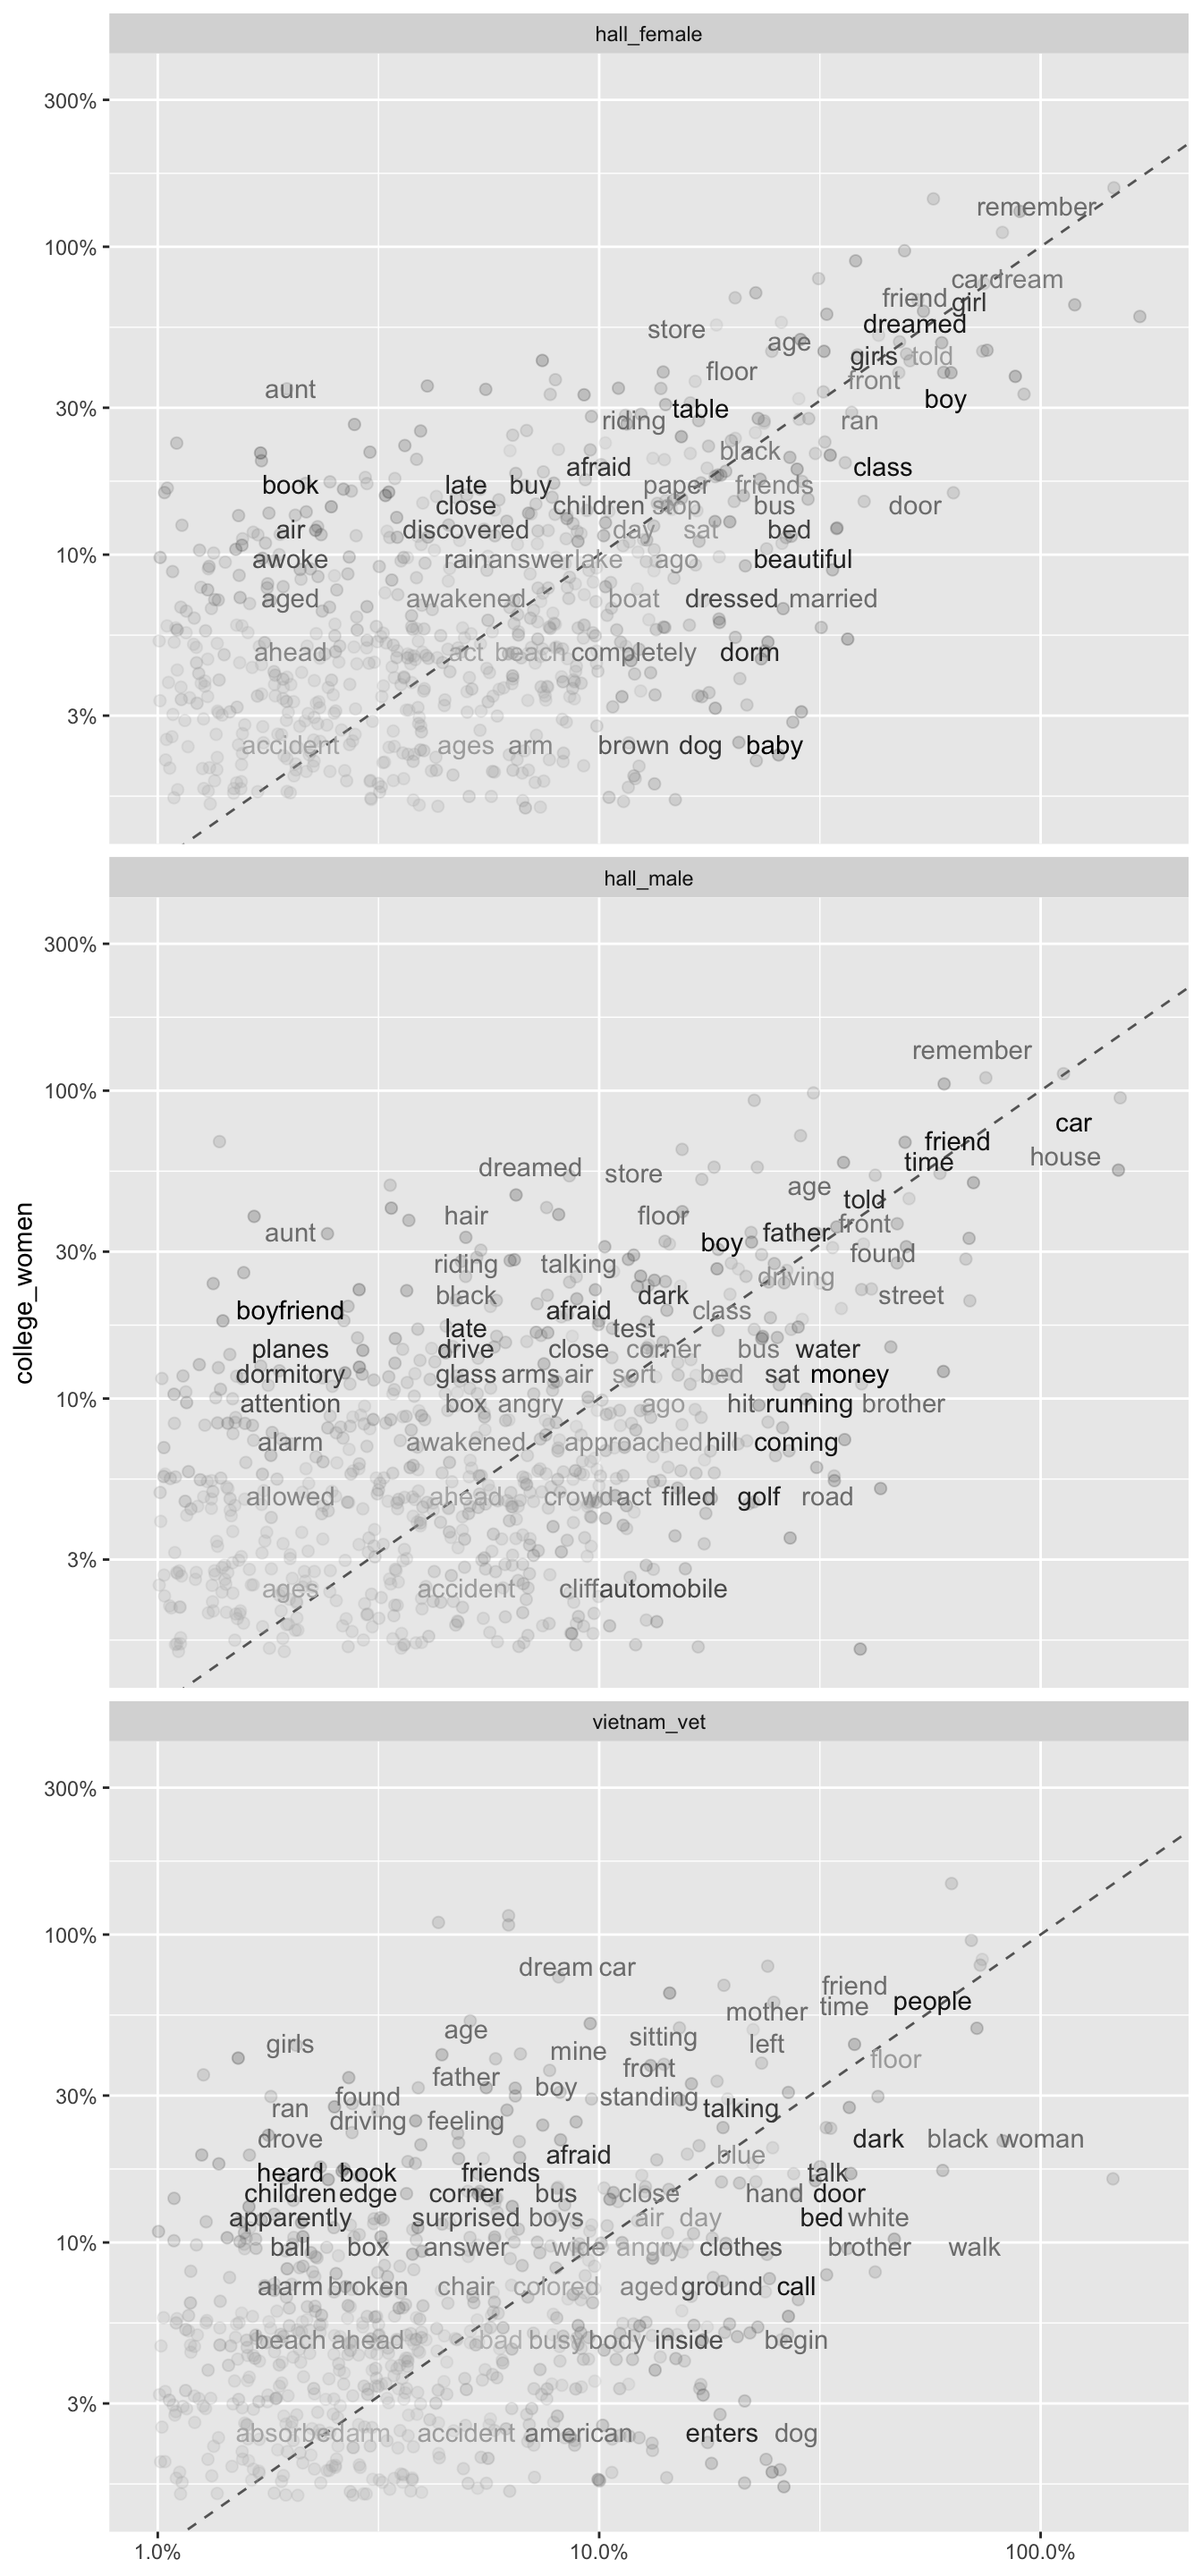
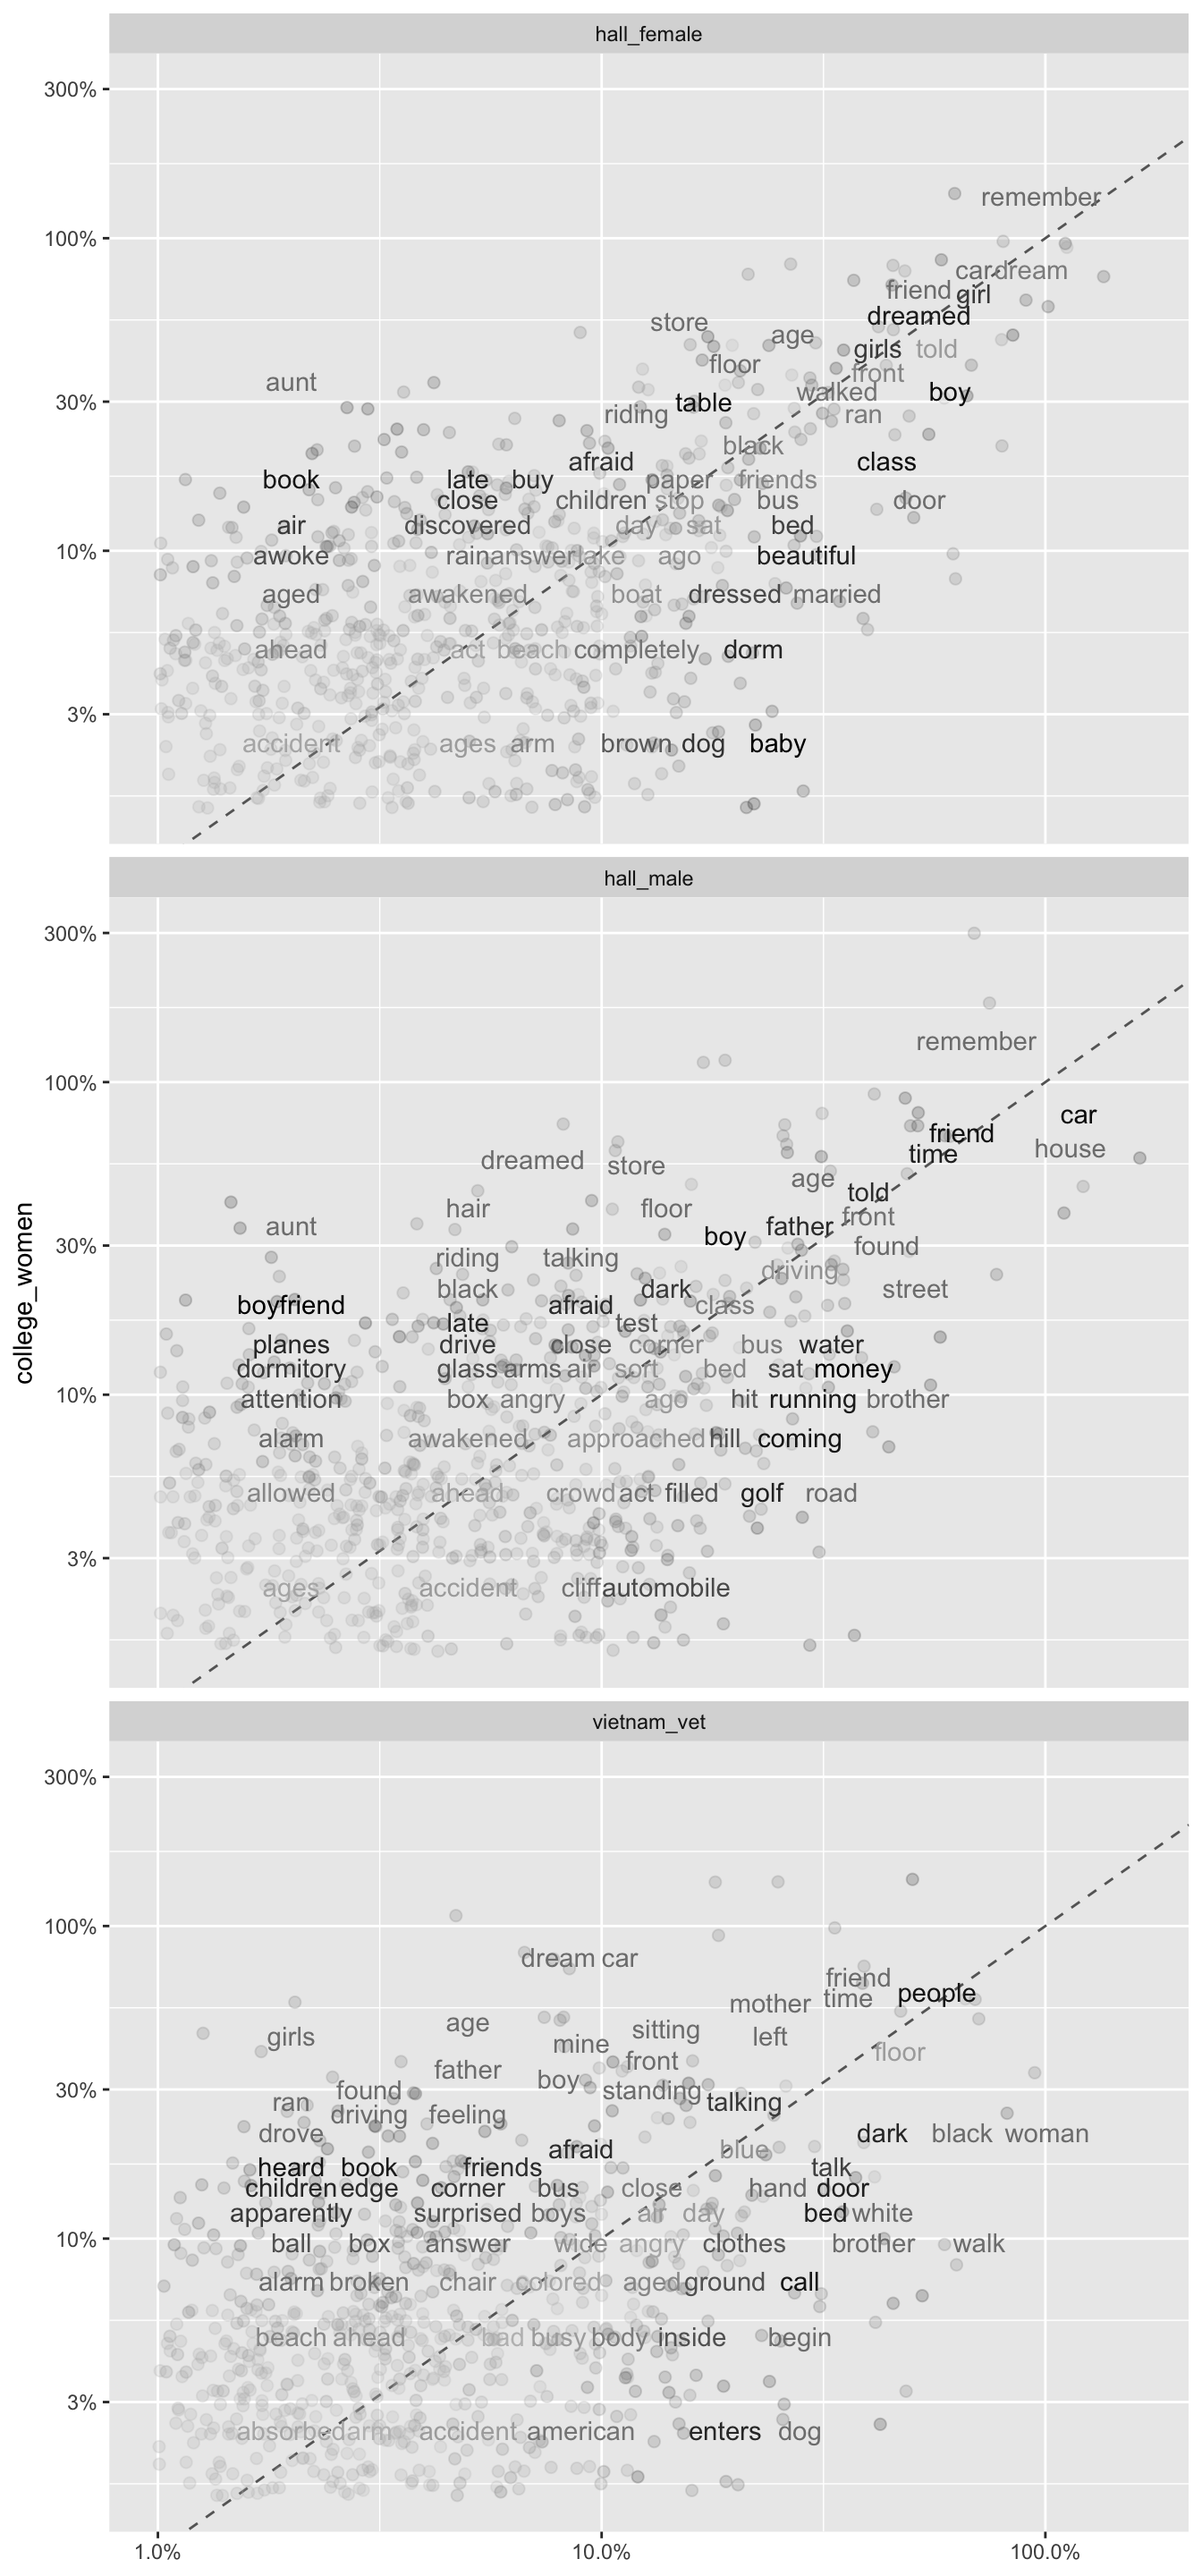
changes to post/rss

diff --git a/public/post/manipulating-text-data-from-dreams/index.html b/public/post/manipulating-text-data-from-dreams/index.html
@@ -548,16 +548,16 @@ df$sample &lt;- as.factor(df$sample)</code></pre>
 car::some(df) %&gt;%
   custom_view()</code></pre>
 <pre><code>##           sample                                                    dream
-## 1  college_women I was in a large modern hamburger stand. I was waiting f
-## 2  college_women This dream was a very disconnected one. It began when I 
-## 3  college_women I was walking up my street when I heard the wild barking
-## 4    vietnam_vet I&#39;m living in a ramshackle rooming house. It&#39;s seedy and
-## 5      hall_male My father, brother (17) and I were traveling to Toledo (
-## 6      hall_male At the start of the dream I was sitting at a table with 
-## 7      hall_male I was walking along a deserted street in a small town. I
-## 8      hall_male I was sitting at my desk waiting for class to begin when
-## 9      hall_male In this dream I had murdered a girl I have known for som
-## 10   hall_female I dreamt that I had become pregnant, although I wasn&#39;t m</code></pre>
+## 1  college_women I dreamed I was with a crowd of school girls getting in 
+## 2  college_women I dreamed that the Society for the Blind had given my gr
+## 3    vietnam_vet I&#39;m in an enormous building, a sort of jail, with walls 
+## 4    vietnam_vet I enter the second floor of Dave B&#39;s apartment. Among th
+## 5      hall_male I got up from bed to go to class. I found myself climbin
+## 6      hall_male A group of fellows and I were on our way to a baseball g
+## 7      hall_male I was playing catch with Al (my frat brother) on a paved
+## 8    hall_female Our family doctor (a good friend of ours), his wife, and
+## 9    hall_female I had just returned from a vacation or somewhere to my c
+## 10   hall_female It seems I was in some small office. I know I was workin</code></pre>
 <p><img src="../../img/tidytext.png" width="25%" /></p>
 <p>Julia Silge and David Robinson’s book <strong>Text Mining with R - A tidy approach</strong> sets off at a cracking pace, at least for relatively newbies to R such as myself. They assumes a degree of familiarity with tidyverse concepts and when they introduce concepts such as tidytext format, they can sometimes address three or four steps in one example. I will unpack some of these as individual steps to illustrate what is going on, while using our dream data as the material for processing.</p>
 <p>At the moment our df only contains the sample name (a categorical variable with four values) and the text of the dream. It might be helpful to index the dreams before we tokenise the text in them. So let’s introduce a new variable that we will call dream_number. This will index each dream between 1 - 400 in the dataframe.</p>

diff --git a/public/post/using-tidytext-to-compare-samples-of-dreams/index.html b/public/post/using-tidytext-to-compare-samples-of-dreams/index.html
@@ -555,18 +555,18 @@ library(car)</code></pre>
   filter(!is.na(college_women) &amp; !is.na(hall_female) &amp; !is.na(hall_male) &amp; !is.na(vietnam_vet)) %&gt;%
   some()</code></pre>
 <pre><code>## # A tibble: 10 x 5
-##    word     college_women hall_female hall_male vietnam_vet
-##    &lt;chr&gt;            &lt;dbl&gt;       &lt;dbl&gt;     &lt;dbl&gt;       &lt;dbl&gt;
-##  1 caught            0.03        0.07      0.09        0.09
-##  2 collar            0.06        0.02      0.02        0.02
-##  3 covered           0.09        0.02      0.02        0.02
-##  4 familiar          0.03        0.05      0.05        0.03
-##  5 heavy             0.03        0.05      0.05        0.13
-##  6 play              0.06        0.07      0.05        0.13
-##  7 quickly           0.12        0.05      0.05        0.05
-##  8 riding            0.34        0.12      0.05        0.03
-##  9 short             0.09        0.05      0.19        0.17
-## 10 times             0.09        0.07      0.19        0.17</code></pre>
+##    word      college_women hall_female hall_male vietnam_vet
+##    &lt;chr&gt;             &lt;dbl&gt;       &lt;dbl&gt;     &lt;dbl&gt;       &lt;dbl&gt;
+##  1 attending          0.03        0.02      0.02       0.06 
+##  2 bare               0.06        0.05      0.05       0.06 
+##  3 dropped            0.03        0.07      0.02       0.02 
+##  4 people             0.76        0.61      0.56       0.570
+##  5 playing            0.15        0.27      0.16       0.03 
+##  6 pretty             0.03        0.05      0.02       0.05 
+##  7 putting            0.09        0.05      0.02       0.02 
+##  8 question           0.03        0.02      0.09       0.13 
+##  9 raining            0.03        0.05      0.05       0.08 
+## 10 watch              0.06        0.02      0.02       0.11</code></pre>
 <p>Then the next step is to decide which sample is going to be our reference sample. This will have its column of frequencies replicated and stacked so that each of the other samples can be compared with it. When we <em>gather()</em>, we only include the samples to compare with the reference and not the reference itself. For simplicity, we can use the first column in our df (college_women) as our reference group and compare the other three samples to this. We might predict at this point that the hall_women will have the most similar dreams and then the hall_men, with the vietnam_vet being the most different. We can check this prediction later on when we run some correlation coefficients.</p>
 <pre class="r"><code>df_gather &lt;- df_spread %&gt;%
   gather(sample, proportion, hall_female:vietnam_vet)</code></pre>
